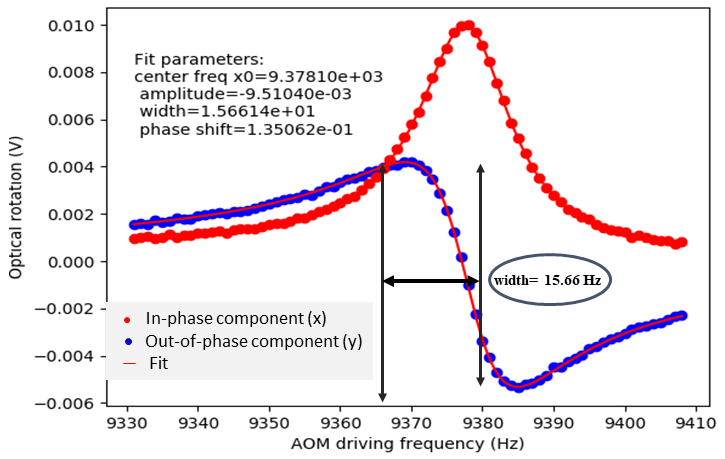
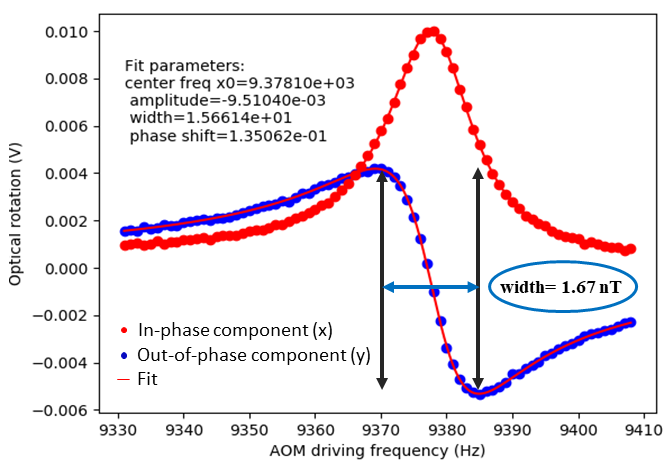
Moushumi's changes from yesterday.

diff --git a/my_experiment.tex b/my_experiment.tex
@@ -81,25 +81,25 @@ at a 45$^\circ$ angle and aligned with the axis of the
 $\lambda/2$-plate, and in the absence of any optical rotation, the
 balanced photodiode would output zero volts.  If the plane of
 polarization is rotated by passage through the cell, it will be sensed
-by the differential photodiode signal.  This is discussed further in Section~\ref{sec:Signal Processing}. Fig.~\ref{fig:pumpprobe}  shows the schematic layout of the apparatus used for studying the
+ by the differential photodiode signal.  This is discussed further in Section~\ref{sec:Signal Processing}.
+ 
+ Fig.~\ref{fig:pumpprobe}  shows the schematic layout of the apparatus used for studying the
 non-linear magneto-optical effects with the amplitude modulated
 light. In this work, a paraffin-coated vapor cell (about 5 cm long)
 containing natural rubidium with stable isotopes $^{87}$Rb~ and~
 $^{85}$Rb, is used as the magneto-optical sample. To get maximum
 sensitivity and to reduce ambient fields the cell is placed within a
 magnetic shield made of four-layer of $\mu$ metal. A semiconductor diode laser is the light source. The laser
-wavelength ($\lambda=795$ nm) is precisely controlled by an external
-locking system.  The light beam is splited into pump and
+wavelength ($\lambda=795$ nm) is precisely controlled by an external locking system.  The light beam is splited into pump and
 probe beam using a beamsplliter. The typical light power of the pump
 beam is 40 $\mu$W and the typical light power of the probe beam is 20
-$\mu$w. Acousto Optic Modulator (AOM)is used to modulate the pump beam. Upon passing through the AOM and
-linear polarizer linearly polarized light beam interact with Rb
-atoms. The probe beam then passes through our vapour cell which sits
-inside the shield. Then the nonlinear Faraday rotation signals are
-analyzed by a balanced polarimeter.  A Wollaston prism is used to
+$\mu$W. Acousto Optic Modulator (AOM) is used to modulate the pump beam. The details of the working principle of AOM is discussed in section \ref{sec:AOM}. Upon passing through the AOM the pump beam is then passes through a lens to collimate. Before interact with the Rb cell pump beam passes trough a N.D.F and polarizer to reduce the beam power. After that the linearly polarized light beam interact with Rb
+atoms. 
+
+The probe beam then passes through our vapour cell which sits inside the shield. Then the nonlinear Faraday rotation signals are analyzed by a balanced polarimeter.  A Wollaston prism is used to
 split the beam into its perpendicular polarization axes which are then
 analyzed individually by our photodiode. Our photodiode contains two
-individual diodes and an internal differential amplifier which outputs the difference in diodes P1 - P2. A lock-in amplifier was used to detect the polarimetric signal and stored on a computer.
+individual diodes and an internal differential amplifier which outputs the difference in diodes P1 - P2. A lock-in amplifier was used to detect the polarimetric signal and stored on a computer. Table \ref{table:laser power} shows the adjusted beam power at several positions of experimental setup.
 \begin{figure}%[h]
 \centering
 \includegraphics[width=0.95\linewidth]{figures/experimental_setup}
@@ -111,11 +111,11 @@ individual diodes and an internal differential amplifier which outputs the diffe
 \end{figure}
 \section{External Cavity Diode Laser(ECDL)}
 \bigskip
-In our NMOR based optical magnetometry setup, laser light was provided by an external cavity diode laser. These kind of diodes are semiconductor diodes and thus vibration and shock resistant. They are also wavelength tunable. Besides that, external cavity diodes emit single mode laser light with a very narrow-band linewidth. A critical aspect of an ECDL is temperature control of the cavity, since the laser frequency depends on the cavity length and hence on the thermal expansion coefficient of the cavity material. Micrometer screws enable manual coarse tuning, while precise scans without mode hops are performed by a piezo actuator. This kind of grating stabilized diode lasers is especially advantageous for spectroscopy with the alkalines. Our Toptica DL-100 outputs a tunable wavelength near 795 nm with an output power $<100$ mW. The laser spot size is elliptical, and approximately 3 mm x 5 mm = $15 mm^2$.The laser was typically tuned to the D1 (F = 3,2 2) absorption minimum and then adjusted to maximize optical rotation. Our NMOR system uses an atomic vapour cell containing natural rubidium with stable isotopes $^{87}Rb$ and $^{85}Rb$ both being present.
+In our NMOR based optical magnetometry setup, laser light was provided by an external cavity diode laser. These kind of diodes are semiconductor diodes and thus vibration and shock resistant. They are also wavelength tunable. Besides that, external cavity diodes emit single mode laser light with a very narrow-band linewidth. A critical aspect of an ECDL is temperature control of the cavity, since the laser frequency depends on the cavity length and hence on the thermal expansion coefficient of the cavity material. Micrometer screws enable manual coarse tuning, while precise scans without mode hops are performed by a piezo actuator. This kind of grating stabilized diode lasers is especially advantageous for spectroscopy with the alkalines. Our Toptica DL-100 outputs a tunable wavelength near 795 nm with an output power $<100$ mW. The laser spot size is elliptical, and approximately 3 mm x 5 mm = $15 mm^2$. The laser was typically tuned to the D1 (F = 3,2 2) absorption minimum and then adjusted to maximize optical rotation. Our NMOR system uses an atomic vapour cell containing natural rubidium with stable isotopes $^{87}Rb$ and $^{85}Rb$ both being present.
 
 \section{Dichroic Atomic Vapor Laser Lock (DAVLL)}
 
-In order to control the laser frequency to a fraction of the Doppler-broadened linewidth of the relevant hyperfine atomic transition of the Rb D1-line, a frequency error signal is generated by taking usage of the Zeeman effect combined with circular dichroism of an atomic vapor which is exposed to a magnetic field \cite{doi:10.1063/1.3568824}. The generated error signal passes through zero crossings as the laser frequency coincident with the lock frequency. The schematic diagram of the apparatus used in  the DAVLL system has shown in Fig \ref{fig:DAVLL}. A linearly polarized probe beam is incident on a glass cell filled with Rb vapor surrounded by a set of permanent magnets. The wavevector of the light is parallel to the axis of the generated magnetic field by permanent magnets. After the interaction of the laser beam with the Rb cell, the beam passes through a quarter-wave plate before impinging on a polarizing beam splitter (PBS) or a Wollaston prism. The linearly polarized beam incident can be split into two orthogonal circularly polarized beams. A set of photodiodes are used to detect the intensity of the right and left circularly polarized beams. Both of the photodiodes are attached to a polarimeter board which is used to measure the difference in signals and amplifies it. One oscilloscope is used for monitoring each photodiode as well as the difference output. The signal is then fed into a PID controller which finally controls the laser diode current corresponding to a certain laser frequency.
+In order to control the laser frequency to a fraction of the Doppler-broadened linewidth of the relevant hyperfine atomic transition of the Rb D1-line, a frequency error signal is generated by taking usage of the Zeeman effect combined with circular dichroism of an atomic vapor which is exposed to a magnetic field \cite{doi:10.1063/1.3568824}. The generated error signal passes through zero crossings as the laser frequency coincident with the lock frequency. The schematic diagram of the apparatus used in  the DAVLL system has shown in Fig \ref{fig:DAVLL}. A linearly polarized probe beam is incident on a glass cell filled with Rb vapor surrounded by a set of permanent magnets. The wave vector of the light is parallel to the axis of the generated magnetic field by permanent magnets. After the interaction of the laser beam with the Rb cell, the beam passes through a quarter-wave plate before impinging on a polarizing beam splitter (PBS) or a Wollaston prism. The linearly polarized beam incident can be split into two orthogonal circularly polarized beams. A set of photodiodes are used to detect the intensity of the right and left circularly polarized beams. Both of the photodiodes are attached to a polarimeter board which is used to measure the difference in signals and amplifies it. A Tektronix TDS2024 oscilloscope is used for monitoring each photodiode signal as well as the difference output. The signal is then fed into a PID controller which finally controls the laser diode current corresponding to a certain laser frequency.
 \begin{figure}[h]
 \centering
 \includegraphics[width=0.8\linewidth]{figures/DAVLL}
@@ -123,17 +123,22 @@ In order to control the laser frequency to a fraction of the Doppler-broadened l
 \end{figure}
 \section{Laser tuning and locking}
 In order to polarize atoms by optical pumping, it's important to tune the laser properly to expected transition line.
-Setting the laser temperature correctly is one of the important parts to achieve good tuning . First we need to turn on the temperature control panel and then it’s easy to adjust laser temperature manually by tuning the knob of temperature control panel. For our tune the laser temperature is set to 20.1 $\degree$c. For good tuning it is also important to know the laser current which corresponds to the emission of laser light with a wavelength matching the absorption line of the Rb atom. This is usually done by a DAVLL scan so it's necessary to make sure the DAVLL optical setup is done correctly. An oscilloscope is used to observe the output of the differential amplifier. Trigger the scope on the trigger output on the sweep control panel.
-Laser current can be controlled by adjusting the current control knob until the spectral structure of $^{85}Rb$ appears. we need to keep adjusting the current control knob until a maximum symmetry between the upsweep and downsweep portions is achieved. After that by adjusting the knob of sweep control panel we can zoom in the structure and set the trigger to steep of the absorption minima. 
+Setting the laser temperature correctly is one of the important parts to achieve good tuning . First we need to turn on the temperature control panel and then it’s easy to adjust laser temperature manually by tuning the knob of temperature control panel. For our tune the laser temperature is set to 20.1 $\degree$c. For good tuning it is also important to set the laser current which corresponds to the emission of laser light with a wavelength matching the absorption line of the Rb atom. This is usually done by a DAVLL scan so it's necessary to make sure the DAVLL optical setup is done correctly. An oscilloscope is used to observe the output of the differential amplifier. Trigger the scope on the trigger output on the scan control (SC) panel.
+Laser current can be controlled by adjusting the current control knob until the spectral structure of $^{85}Rb$ appears (see Fig \ref{fig:laser tune}). we need to keep adjusting the current control knob until a maximum symmetry between the upsweep and downsweep portions is achieved. After that by adjusting the knob of scan control panel we can zoom in the structure and set the trigger to steep of the absorption minima. 
 \begin{figure}[h]
 \centering
 \includegraphics[width=0.8\linewidth]{figures/laser_control_}
-\caption{Diode laser controller unit consist of analog current control module, scan control module,low-noise temperature control module, feedback controlyzer and Diode Laser Controller display .\label{fig:laser controller}}
+\caption{Diode laser controller unit consist of analog current control module (CC), scan control module (SC),low-noise temperature control module (TC), feedback controlyzer (FC) and Diode Laser Controller display .\label{fig:laser controller}}
 \end{figure}
 
-Digilock 110 feedback controlyzer is used for laser locking. The DigiLock 110 is an up-to-date digital hardware allows to implement the scan generator, PID controllers and optional frequency modulation techniques all into one plug in module. It offers graphical user interface running on a PC makes the procedure of laser locking enormously easy. Different important features are also available in this module for analyzing and optimizing the control system.
- 
-The output of the laser feedback controlyzer panel is connected to the computer where Digilock software was already installed. The output signal of the differential photodiode is fed into the controlyser panel main input. After connecting the DigiLock 110 we can turn on scan and navigate to the autolock screen at the bottom. Then the the portion of the spectrum that we tuned earlier will appear. Then we need to select the crosshairs tool which allow us to drag the crosshairs on the part of the spectrum that we want to tune to. Finally for successful laser locking we need to click and select "PID lock to slope".
+Digilock 110 feedback controlyzer(FC) is used for laser locking. The DigiLock 110 is an up-to-date digital hardware allows to implement the scan generator, PID controllers and optional frequency modulation techniques all into one plug in module. It offers graphical user interface running on a PC makes the procedure of laser locking enormously easy. Different important features are also available in this module for analyzing and optimizing the control system.
+ \begin{figure}[h]
+\centering
+\includegraphics[width=0.7\linewidth]{figures/laser tune.png}
+\caption{Oscilloscope trace of differential photodiode signal \label{fig:laser tune}}
+\end{figure}
+The output of the laser feedback controlyzer panel is connected to the computer where Digilock software was already installed. The output signal of the differential photodiode is fed into the controlyser panel main input. After connecting the DigiLock 110 we can turn on scan and navigate to the autolock screen at the bottom. Then the the portion of the spectrum that we tuned earlier will appear(see Fig \ref{fig:digilock}). Then we need to select the crosshairs tool which allow us to drag the crosshairs on the part of the spectrum that we want to tune to. Finally for successful laser locking we need to click and select "PID lock to slope". For most of the studies reported in this thesis we use the auto locking features of the DigiLock software.
+
 \begin{table}[h]
 \centering
 \begin{tabular}{|l | l|}
@@ -151,9 +156,14 @@ After Cell ~ &  ~ ~ ~ ~ ~ 18   \\
 
 \hline
 \end{tabular}
-\caption{Adjusted laser power at several positions in the experiment}
+\caption{Adjusted laser power at several positions in the experiment.\label{table:laser power}}
 \end{table}
-\section{Acousto-optic Modulator (AOM)}
+\begin{figure}[h]
+\centering
+\includegraphics[width=0.6\linewidth]{figures/digilock.jpg}
+\caption{digilock\label{fig:digilock}}
+\end{figure}
+\section{Acousto-optic Modulator (AOM)\label{sec:AOM}}
 
 The acousto-optic modulator offers a method of modulating the
 amplitude of the light.

diff --git a/magnetometry.tex b/magnetometry.tex
@@ -31,12 +31,13 @@ Alkali-metal atoms have single electron in their outer shell. For this reason th
   \begin{itemize}
   \item Hypothetical transition and linear magneto-optical rotation
   
- In the presence of an axial magnetic field, when a linearly polarized light passes through an atomic medium the plane of polarization rotates. This kind of effect is known as the Faraday effect. Afterwards an resonant enhancement of the Faraday rotation has discovered by D. Macaluso and O.M Corbino in 1898 which is known as nonlinear magneto-optical rotation (NMOR) or nonlinear Faraday rotation \cite{budker2013optical}. Consider an example system of $ F=~1$ to $F'=~0$ transition (Fig~\ref{fig:Zeemansplitting}).  Linearly polarized light can decompose into two counter-rotating circularly polarized components $\sigma^\pm$. The transferable angular momentum is +1 for left circular polarization, -1 for right circular polarization. In
-the absence of a magnetic field, the $M=\pm 1$ sublevels are
+ In the presence of an axial magnetic field, when a linearly polarized light passes through an atomic medium the plane of polarization rotates. This kind of effect is known as the Faraday effect. Afterwards an resonant enhancement of the Faraday rotation has been discovered by D. Macaluso and O.M Corbino in 1898 which is known as nonlinear magneto-optical rotation (NMOR) or nonlinear Faraday rotation \cite{budker2013optical}. Consider an example system of $ F=~1$ to $F'=~0$ transition (Fig~\ref{fig:Zeemansplitting}).  Linearly polarized light can decompose into two counter-rotating circularly polarized components $\sigma^\pm$. The transferable angular momentum is +1 for left circular polarization, -1 for right circular polarization. 
+ 
+ In the absence of a magnetic field, the $M=\pm 1$ sublevels are
 degenerate and the optical resonance frequencies for  the two circular
 polarizations coincide. 
  In the presence of magnetic field the Zeeman sublevels $M=\pm 1$ shift in energy  by an amount $g\mu B/\hbar$ where g is the Lande factor and $\mu$~is the Bohr magneton. This Zeeman splitting therefore leads to a difference between the  resonance frequencies for for $\sigma^+$ and
-$\sigma^-$ light. The left circularly polarized light experiences refractive index +n and the refractive index for right circularly polarized light is -n. In this case, optical rotation arises due to the difference in the refractive index 
+$\sigma^-$ light. The left circularly polarized light experiences refractive index $n_+$ and the refractive index for right circularly polarized light is $n_-$. In this case, optical rotation arises due to the difference in the refractive index 
 \begin{equation}
 \label{eq:emc}
 \phi = \pi(n_+-n_{-})\frac{l}{\lambda} \\
@@ -67,7 +68,8 @@ polarization components. This is the characteristic spectral profile of Macaluso
   \item Nonlinear effects in atomic gases: hole-burning and coherent
     population trapping
     
-    
+
+In NMOR, the optical properties of the medium are modified by the laser light, resulting in nonlinear effects such as hole-burning and the creation of a coherent dark state.     
 Hole burning is the  nonlinear
 effect leading to enhanced Faraday rotation. Spectral holes, or Bennett-structures, are dips in the velocity distribution of a group of atoms produced by pump laser beam. The Faraday rotation produced by atoms with such velocity distribution can be thought of as rotation produced by the Doppler distributed atoms without the hole minus the rotation that would have been produced by the pumped out atoms.
 
@@ -79,36 +81,28 @@ around the direction of the field with the Larmor frequency.
   \end{itemize}
 \item Magnetometry using NMOR
 
-nonlinear magneto-optical rotation (NMOR), is a promising technique for a new generation of ultrasensitive atomic magnetometers. For magnetic fields directed along the light propagation direction, resonances in NMOR appear when linearly polarized light is frequency or amplitude modulated at twice the Larmor frequency. Because the frequency of these resonances depends on the magnitude but not the direction of the field, they are useful for scalar magnetometry.
+
   \begin{itemize}
     \item Near zero field.
     \item Nonzero field.
       \begin{itemize}
       \item FM NMOR 
       
-      The FM NMOR technique is useful for increasing the dynamic range of NMOR-based magnetometers.  It is possible to achieve the  sensitivity of the device in the range of  $10^{−11} $ G/pHz (comparable or superior, e.g., to the most sensitive superconducting quantum interference (SQUID) sensors)\cite{bib:FMNMOR}.
+     
       \item AM NMOR
        
- Studies have been reported by  Pustelny et al. \cite{bib:AMNMOR,bib:amNMOR} on all-optical magnetometric technique based on nonlinear magneto-optical rotation with amplitude-modulated light. The method enables sensitive magnetic-field measurements in a broad dynamic range. The sensitivity of  $4.3\times10^{-9}$ G/$\sqrt{\text{Hz}}$ at 10 mG and the magnetic field tracking in a range of 40 mG has been achieved.
+
       
       \item Michi's thesis
 
-  To achieve further sensitivity another way of receiving a signal from the magnetometer
-has been studied \cite{mythesis}. In this study an all optical magnetometer has been operated in Free Induction Decay (FID) mode where the Cs atoms have to be excited
-once and afterwards the decaying processes (damped oscillation) of the coherence state is
-observed (similar to NMR). The sensitivity depends on the T2 time, which is the decay time
-of the macroscopic polarization moment.
+ 
       \end{itemize}
     \item Sensitivity to tilted fields
     
-    Pustelny et al. \cite{PhysRevA.74.063420}  showed that by
-tilting the magnetic field towards the light polarization axis a new resonance at Larmor frequency ($\Omega_L$) occurs
-while the main resonance can still be found at twice the Larmor frequency($2\Omega_L$) (but with decreased amplitude) if linear
-polarized light is used. The ratio of the resonance amplitudes at $\Omega_L$ and $2\Omega_L$ can be used to
-evaluate the magnitude of the B-field at the measuring point.
+    
     \item Vector magnetometer
     
-    An all-optical magnetometer is also capable of measuring the direction of a magnetic field along with field magnitude \cite{bib:vectormagnetometer}.  This study has been conducted using nonlinear magneto-optical rotation in cesium vapor.  Vector capability is added by effective modulation of the field along orthogonal axes and subsequent demodulation of the magnetic-resonance frequency.  The sensor exhibits a demonstrated rms noise floor of ∼$65fT/ \sqrt {Hz}$ in measurement of the field magnitude and $ 0.5 mrad/\sqrt {Hz}$ in the field direction.  Applications for this all-optical vector magnetometer would include magnetically sensitive fundamental physics experiments, such as the search for a permanent electric dipole moment of the neutron.
+    
   \end{itemize}
 \item Reminder of what we do, leading into next chapter
 \end{itemize}
@@ -149,3 +143,20 @@ this rotation in order to observe the spin behavior. optical polarization rotati
 
 \section{Magnetometry using NMOR}
 
+nonlinear magneto-optical rotation (NMOR), is a promising technique for a new generation of ultrasensitive atomic magnetometers. For magnetic fields directed along the light propagation direction, resonances in NMOR appear when linearly polarized light is frequency or amplitude modulated at twice the Larmor frequency. Because the frequency of these resonances depends on the magnitude but not the direction of the field, they are useful for scalar magnetometry.
+
+ The FM NMOR technique is useful for increasing the dynamic range of NMOR-based magnetometers.  It is possible to achieve the  sensitivity of the device in the range of  $10^{−11} $ G/pHz (comparable or superior, e.g., to the most sensitive superconducting quantum interference (SQUID) sensors)\cite{bib:FMNMOR}.
+
+ Studies have been reported by  Pustelny et al. \cite{bib:AMNMOR,bib:amNMOR} on all-optical magnetometric technique based on nonlinear magneto-optical rotation with amplitude-modulated light. In AM NMOR, the atoms need to be pumped repeatedly. When this modulation frequency is the same as the harmonic
+frequency of the atoms we observe NMOR signal. The method enables sensitive magnetic-field measurements in a broad dynamic range. The sensitivity of  $4.3\times10^{-9}$ G/$\sqrt{\text{Hz}}$ at 10 mG and the magnetic field tracking in a range of 40 mG has been achieved. 
+
+An all-optical magnetometer is also capable of measuring the direction of a magnetic field along with field magnitude \cite{bib:vectormagnetometer}.  This study has been conducted using nonlinear magneto-optical rotation in cesium vapor.  Vector capability is added by effective modulation of the field along orthogonal axes and subsequent demodulation of the magnetic-resonance frequency.  The sensor exhibits a demonstrated rms noise floor of ∼$65fT/ \sqrt {Hz}$ in measurement of the field magnitude and $ 0.5 mrad/\sqrt {Hz}$ in the field direction.  Applications for this all-optical vector magnetometer would include magnetically sensitive fundamental physics experiments, such as the search for a permanent electric dipole moment of the neutron. 
+
+Pustelny et al. \cite{PhysRevA.74.063420}  showed that when the magnetic field is along the light propagation direction, the main resonance occurs at $\Omega_m = 2\Omega_L$. This resonance appear because of the symmetry of the optically pumped state. It is found that when magnetic field direction is tilted in the plane perpendicular to the light polarization axis, resonance is observed at  $\Omega_m = 2\Omega_L$~with its amplitude depending on the tilt angle. In this case, the amplitude of resonance signal decreases with increasing tilt angle . However, If we tilt the magnetic field direction towards the light polarization axis a new resonance appears at $\Omega_L$ along with the main resonance at $2\Omega_L$ if linearly polarized light is used. In this case the resonance signal contain two frequency component Fig \ref{fig:transverse} . The amplitude of the new resonance signal at $\Omega_L$  increases as the angle between B and the light propagation direction increases while main resonance amplitude at $2\Omega_L$  decrease with increasing tilt angle. However,when the tilt angle is larger than some certain angle the resonance amplitude measured at $\Omega_L$ also start to decrease and reaches zero when the magnetic field is directed along the y axis.   It could be possible to evaluate the magnitude of the magnetic field from the ratio of the resonance amplitudes at $\Omega_L$ and $2\Omega_L$. The ratio of the resonance amplitudes at $\Omega_L$ and $2\Omega_L$ can be used to
+evaluate the magnitude of the B-field at the measuring point.
+
+ To achieve further sensitivity another way of receiving a signal from the magnetometer
+has been studied \cite{mythesis}. In this study an all optical magnetometer has been operated in Free Induction Decay (FID) mode where the Cs atoms have to be excited
+once and afterwards the decaying processes (damped oscillation) of the coherence state is
+observed (similar to NMR). The sensitivity depends on the T2 time, which is the decay time
+of the macroscopic polarization moment.

diff --git a/characterization.tex b/characterization.tex
@@ -136,9 +136,9 @@ removed.  The field is calibrated to the voltage signal as described
 above.  In Fig.~\ref{fig:near zero field}, the data have been fitted
 to a dispersive Lorentzian shape given by the function
 \begin{equation}
-\mathrm{Signal~(V)}=\frac{A(B-B_0)}{somefunctionthatMoushumifillsin}
+\mathrm{Signal~(V)}=\frac{a(B-B_0)}{1+a(B-B_0)^2}\cdot l+C
 \end{equation}
-where $A$, $B_0$, $a$, and $o$ are fit parameters.  A key measure of
+where $a$, $B_0$, $C$, and $l$ are fit parameters.  A key measure of
 magnetometer performance is the valley-to-peak distance, which in this
 case is about $\Delta B=\frac{2}{a}=0.49$~nT.  The other key measure
 in this case is the deduced field at zero crossing given by the fit
@@ -260,7 +260,7 @@ constantly changing, so that each data point for optical rotation
 represents a range of drive frequencies that were sampled within the
 lock-in time constant.  A more robust method involves selecting
 particular frequencies in series and then fitting to determine the
-resonant frequency, as done in Ref.~\cite{bib:michithesis}.  I tried
+resonant frequency, as done in Ref.~\cite{mythesis}.  I tried
 this method also, which I call a forced-oscillation scan.
 
 For this forced-oscillation scan a frequency range and frequency
@@ -273,13 +273,7 @@ demodulated at the reference frequency. The resulting in-phase (X) and
 quadrature (Y) outputs are collected by the python code via GPIB.  A
 settling time of at least 5 lock-in time constants ensures that no
 memory of the previous frequency is retained by the lock-in amplifier.
-\begin{figure}[h]
-\centering\includegraphics[width=0.4\linewidth]{figures/FM_NMOR}
-\caption{Optical rotation vs. forced oscillation frequency...{\bf with
-    a set of otherwise unknown parameters being used.  Also this
-    figure is never referred to in the text, apparently.}}
-\end{figure}
-
+\
 % Refer to appropriate Section of Chapter 2, if you want to make this
 % statement.
 
@@ -359,6 +353,8 @@ resonance width is 1.67 nT.
 respectively.
 \item Something in the width corresponds to 1.67 nT, but it is very
   unclear how.
+  
+  \bf The width ($\Delta f$) is 15.66 Hz which then translated into magnetic field using the relation $\Delta B= \Delta f/2 \gamma$ where $\gamma$ is the gyromagnetic ratio of Rb.
 \end{itemize}
 
 The probe beam then analyzed by photodiode whose output was connected
@@ -557,7 +553,7 @@ Disadvantages: As a finite duty cycle is used (pump modulation only happens duri
 
 \subsection{FID in tilted magnetic field}
 For the nEDM experiment it is very important to do tilted field measurement in order to have better understanding of  geometric phase effects which are the leading sources for systematic uncertainties during nEDM measurement . 
-Since our Rb magnetometer is a scalar magnetometer, it is not possible to measure vector field components directly.In general, when the magnetic field is along the light propagation direction, the main resonance occurs at $\Omega_m = 2\Omega_L$. This resonance appear because of the symmetry of the optically pumped state. It is found that when magnetic field direction is tilted in the plane perpendicular to the light polarization axis, resonance is observed at  $\Omega_m = 2\Omega_L$~with its amplitude depending on the tilt angle. In this case, the amplitude of resonance signal decreases with increasing tilt angle . However, If we tilt the magnetic field direction towards the light polarization axis a new resonance appears at $\Omega_L$ along with the main resonance at $2\Omega_L$ if linearly polarized light is used. In this case the resonance signal contain two frequency component Fig \ref{fig:transverse} . The amplitude of the new resonance signal at $\Omega_L$  increases as the angle between B and the light propagation direction increases while main resonance amplitude at $2\Omega_L$  decrease with increasing tilt angle. However,when the tilt angle is larger than some certain angle the resonance amplitude measured at $\Omega_L$ also start to decrease and reaches zero when the magnetic field is directed along the y axis.   It could be possible to evaluate the magnitude of the magnetic field from the ratio of the resonance amplitudes at $\Omega_L$ and $2\Omega_L$. The same study with frequency modulated light has been reported by Pustelny et al.\cite{PhysRevA.74.063420}. In this study the NMOR Signal was observed by connecting the balanced photodiode to the oscilloscope directly. A python script is used to transfer the data presented on the oscilloscope screen to computer for further analysis. 
+Since our Rb magnetometer is a scalar magnetometer, it is not possible to measure vector field components directly.In general,  The same study with frequency modulated light has been reported by Pustelny et al.\cite{PhysRevA.74.063420}. In this study the NMOR Signal was observed by connecting the balanced photodiode to the oscilloscope directly. A python script is used to transfer the data presented on the oscilloscope screen to computer for further analysis. 
 
 \begin{figure}
     \centering

diff --git a/results.tex b/results.tex
@@ -22,25 +22,9 @@
 %control the number and amplitudes of the high field resonances by
 %using the square wave modulation of light intensity.
 
-In AM NMOR, we need to pump the atoms repeatedly, and a lock-in
-amplifier is used to observe the optical rotation at the same
-frequency. When this modulation frequency is the same as the harmonic
-frequency of the atoms we observe NMOR signal. During this study the
-reference frequency of lock-in amplifier is set to the modulation
-frequency. The x and y output signal of lock-in amplifier are shown in
-Fig~\ref{fig:AMOR}. The black curve corresponds to the in-phase
-component(x), the red curve to the out of phase component(y). The
-dispersion structure(y component) is the resonance that can be
-observed in a regular rotation experiment with no modulation.  The
-modulation frequency of the pump beam was set to its resonance while
-the X and Y outputs recorded. In this case the observed resonance
-width is about 2.5 nT which has shown in Fig~\ref{fig:AMOR}.
-
-
 \subsection{Forced-Oscillation Scan}
 
-\section{FID at 0.2 $\mu$T and FID at 
-  1 $\mu$T (need to edit) }
+\section{FID at 0.2 \texorpdfstring{$\mu$}{Lg}T and FID at 1 \texorpdfstring{$\mu$}{Lg}T (need to edit) }
   Coherence time indicate the time atoms take to decay spontaneously from excited ground state after removing the pump beam. To measure the coherence time, a pump beam of linearly polarized light is
 used to align the atoms along the magnetic field by optical pumping. The pump
 beam is then blocked allowing the atoms to relax over time. Optical rotation of the linearly polarized probe beam is used to measure the coherence time. In this measurement optical pumping is done for 0.5 sec. Since at higher field coherence state decays quickly so coherence time get smaller. Fig~\ref{fig:graphs} shows the FID signal for  two different field.  At  0.2 $\mu$T field the coherence life time is about 75 ms Fig~\ref{fig:small field} and when the applied magnetic field is 1 $\mu$T  the coherence lifetime is about 23 ms Fig~\ref{fig:1 micro tesla}. Since at higher field, FID signal contain less no of oscillation it becomes challenging to extract oscillation frequency precisely and therefore magnetic field. In order to avoid this systematic effect most of the studies reported in this thesis has done at 0.2 $\mu$T.
